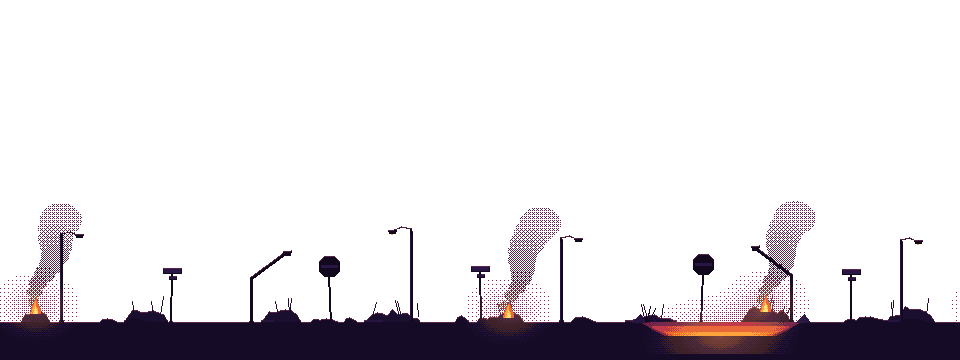
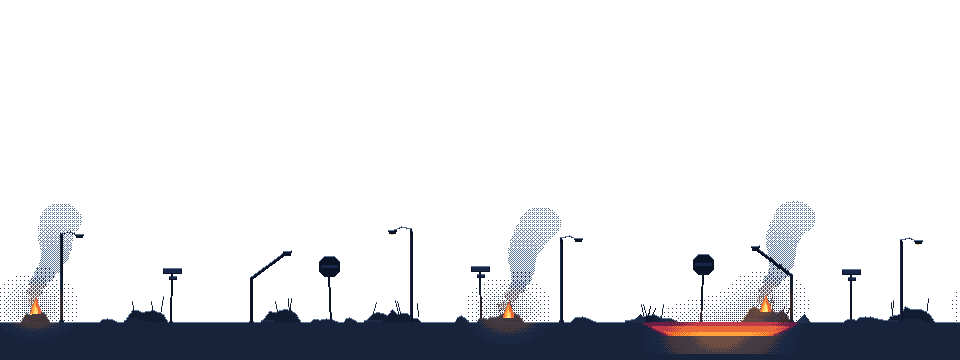
Add surface-only snow, winter night background, smoother motion (#30)
- Screen-space snowfall that fades out through the first gate
- Snow caps on surface platforms
- Street background recolored to a dark, moonlit winter night
- Enable physics interpolation; parallax follows the drawn camera position

diff --git a/art-src/terrain/bg_street.py b/art-src/terrain/bg_street.py
@@ -3,9 +3,9 @@ from pix import Art, hx
 from bgkit import *
 
 H = 360
-SKY = ["#0a0720", "#130c32", "#1f1042", "#34154f", "#561a58", "#8a2457", "#c03a4a", "#e8683a"]
+SKY = ["#05080f", "#080d1c", "#0c1428", "#111c36", "#182847", "#223458", "#2c4268", "#6f88ad"]
 FIRE = ["#b8322e", "#f06a2a", "#ffb347", "#ffe27a"]
-GROUND = "#190e2a"
+GROUND = "#2c4064"
 
 
 def lamp(a, x, gy, h, col, lit=None, bent=False, arm=1, rim=None):
@@ -56,7 +56,7 @@ def sign_post(a, x, gy, h, col, face, kind="blade", lean=0, rim=None):
         a.rect(tx - 1, by + bh + 4, tx + w + 2, by + bh + 2 + bh - 2, face)
 
 
-def rubble_pile(a, x, gy, w, h, col, rng, rim=None):
+def rubble_pile(a, x, gy, w, h, col, rng, rim=None, snow=None):
     pts = [(x, gy)]
     n = max(3, w // 5)
     for i in range(1, n):
@@ -64,6 +64,9 @@ def rubble_pile(a, x, gy, w, h, col, rng, rim=None):
         pts.append((x + int(w * t), gy - int(h * (0.35 + 0.65 * np.sin(np.pi * t)) * (0.6 + 0.4 * rng.random()))))
     pts.append((x + w, gy))
     a.poly(pts, col)
+    if snow:
+        for i in range(len(pts) - 1):
+            a.line([pts[i], pts[i + 1]], snow)
     for _ in range(max(1, w // 14)):
         rx = x + int(rng.integers(2, max(3, w - 2)))
         a.line([(rx, gy - int(h * 0.5)), (rx + int(rng.integers(-4, 5)), gy - h - int(rng.integers(3, 9)))], col)
@@ -74,35 +77,35 @@ def far():
     a = Art(640, H, base=SKY[0])
     a.hband(8, 256, SKY, sharp=2.5)
     a.rect(0, 256, 640, H, GROUND)
-    a.rect(0, 256, 640, 258, "#2a1238")
+    a.rect(0, 256, 640, 258, "#6f88ad")
     stars(a, rng, 70, 130, ["#e6e0ff", "#9d90d8", "#6a5ca8"])
     a.glow(110, 62, 34, "#b8a8ff", 0.0)
     m = a.mask("ellipse", 78, 30, 142, 94)
-    a.stipple(m, "#3a2468", 0.28)
+    a.stipple(m, "#16254a", 0.28)
     m = a.mask("ellipse", 92, 44, 128, 80)
-    a.stipple(m, "#4e3484", 0.35)
+    a.stipple(m, "#223564", 0.35)
     a.ellipse(96, 48, 124, 76, "#e9e3cf")
     a.poly([(98, 56), (106, 50), (112, 52), (104, 60)], "#f6f1e0")
     a.ellipse(110, 56, 124, 76, "#cfc4ba")
     a.ellipse(97, 49, 118, 70, "#e9e3cf")
     for (cx, cy, r) in ((105, 62, 3), (100, 56, 2), (112, 55, 2)):
         a.ellipse(cx - r, cy - r, cx + r, cy + r, "#c9bfb4")
-    low = "#241238"
+    low = "#1c2b48"
     x = -10
     while x < 640:
         w = int(rng.integers(18, 46))
-        rubble_pile(a, x, 258, w, int(rng.integers(4, 10)), low, rng)
+        rubble_pile(a, x, 258, w, int(rng.integers(4, 10)), low, rng, snow="#6f88ad")
         x += w + int(rng.integers(14, 60))
     for lx, hh, bent, lit in ((40, 34, False, None), (150, 30, True, None), (265, 36, False, "#ffb347"), (390, 31, False, None), (480, 33, True, None), (580, 35, False, None)):
-        lamp(a, lx, 258, hh, "#2b1642", lit=lit, bent=bent, arm=1 if lx % 2 else -1)
+        lamp(a, lx, 258, hh, "#16233c", lit=lit, bent=bent, arm=1 if lx % 2 else -1)
     for sx, hh, kind in ((95, 22, "blade"), (205, 20, "stop"), (330, 24, "blade"), (440, 21, "stop"), (535, 23, "blade")):
-        sign_post(a, sx, 258, hh, "#2b1642", "#3d1e55", kind=kind, lean=int(rng.integers(-2, 3)))
+        sign_post(a, sx, 258, hh, "#16233c", "#1e2e4c", kind=kind, lean=int(rng.integers(-2, 3)))
     for fx in (70, 300, 520):
         flame(a, fx, 258, 10, 3, ["#8a2457", "#c03a4a", "#e8683a", "#ffb347"])
     for gx, gy, r in ((70, 252, 70), (300, 252, 80), (520, 252, 70)):
         a.glow(gx, gy, r, "#ff8a3a", 0.4, ry=r * 0.45)
     a.rim_top("#7a2a5a", only=np.zeros((H, 640), bool))
-    used = SKY + ["#2b1642", "#3d1e55", "#241238", "#ffb347", "#8a2457", "#c03a4a", "#e8683a", "#e6e0ff", "#9d90d8", "#6a5ca8", "#e9e3cf", "#f6f1e0", "#c9bfb4", "#cfc4ba", "#3a2468", "#4e3484", GROUND, "#2a1238"]
+    used = SKY + ["#16233c", "#1e2e4c", "#1c2b48", "#ffb347", "#8a2457", "#c03a4a", "#e8683a", "#e6e0ff", "#9d90d8", "#6a5ca8", "#e9e3cf", "#f6f1e0", "#c9bfb4", "#cfc4ba", "#8ea6c6", "#16254a", "#223564", GROUND, "#6f88ad"]
     pal = glow_palette(used, ["#ff8a3a"], (0.2, 0.4))
     return a.finish(pal)
 
@@ -111,42 +114,42 @@ def mid():
     rng = np.random.default_rng(200)
     W = 960
     a = Art(W, H)
-    body, face, lit_c = "#1a0f2e", "#26153f", "#ffa23c"
+    body, face, lit_c = "#121c30", "#1d2b47", "#ffa23c"
     gy = 322
     fires = []
     x = 20
     while x < W - 60:
         w = int(rng.integers(30, 80))
         h = int(rng.integers(8, 26))
-        rubble_pile(a, x, gy + 2, w, h, body, rng)
+        rubble_pile(a, x, gy + 2, w, h, body, rng, snow="#8ea6c6")
         a.rect(x + 2, gy - 2, x + w // 3, gy + 2, face)
         if rng.random() < 0.55:
             fires.append((x + w // 2, gy - h + 4))
         x += w + int(rng.integers(40, 110))
     for lx, hh, bent, lit, arm in ((60, 92, False, None, 1), (250, 84, True, None, 1), (410, 96, False, lit_c, -1), (560, 88, False, None, 1), (790, 90, True, None, -1), (900, 86, False, lit_c, 1)):
-        lamp(a, lx, gy + 2, hh, "#12091f", lit=lit, bent=bent, arm=arm, rim="#26153f")
+        lamp(a, lx, gy + 2, hh, "#0b1426", lit=lit, bent=bent, arm=arm, rim="#1d2b47")
     for sx, hh, kind, ln in ((170, 56, "blade", 1), (330, 50, "stop", -2), (480, 58, "blade", -1), (700, 52, "stop", 2), (850, 55, "blade", 0)):
-        sign_post(a, sx, gy + 2, hh, "#12091f", "#2a1646", kind=kind, lean=ln)
+        sign_post(a, sx, gy + 2, hh, "#0b1426", "#18264a", kind=kind, lean=ln)
     for (fx, fy) in fires:
-        smoke(a, fx, fy - 6, rng, 10, "#34224a", drift=3.2, r0=5, grow=1.7, cov0=0.7)
+        smoke(a, fx, fy - 6, rng, 10, "#26355a", drift=3.2, r0=5, grow=1.7, cov0=0.7)
     for (fx, fy) in fires:
         flame(a, fx, fy + 6, int(rng.integers(16, 26)), 5, FIRE, lean=1)
-        a.glow(fx, fy - 2, 56, "#ff8a3a", 0.4, halo="#7a2a4a", ry=42)
-    ground(a, 322, "#150b26", "#5a2646", rng, bumps=18, bump_h=8)
+        a.glow(fx, fy - 2, 56, "#ff8a3a", 0.4, halo="#2a3a5c", ry=42)
+    ground(a, 322, "#17233b", "#5f7799", rng, bumps=18, bump_h=8)
     cx0 = 640
     pts = [(cx0 + i, 322 + int(26 * (1 - ((i - 80) / 80.0) ** 2))) for i in range(0, 161, 4)]
     a.poly([(cx0, 322)] + pts + [(cx0 + 160, 322)], "#6a1e46")
     a.poly([(cx0 + 12, 326)] + [(px, py - 2) for px, py in pts[3:-3]] + [(cx0 + 148, 326)], "#c03a4a")
     a.poly([(cx0 + 32, 332)] + [(px, py - 4) for px, py in pts[6:-6]] + [(cx0 + 128, 332)], "#f06a2a")
     a.rect(cx0 + 60, 346, cx0 + 100, 346, "#ffb347")
-    a.glow(cx0 + 80, 336, 90, "#ff8a3a", 0.5, halo="#7a2a4a", ry=50)
-    a.rect(0, 336, W, H, "#150b26")
+    a.glow(cx0 + 80, 336, 90, "#ff8a3a", 0.5, halo="#2a3a5c", ry=50)
+    a.rect(0, 336, W, H, "#17233b")
     for rx in (cx0 - 8, cx0 + 156):
-        a.poly([(rx, 322), (rx + 8, 314), (rx + 14, 322)], "#26153f")
+        a.poly([(rx, 322), (rx + 8, 314), (rx + 14, 322)], "#1d2b47")
     for rx in (cx0 + 6, cx0 + 140):
-        a.line([(rx, 322), (rx + 4, 306)], "#0f0820")
-        a.line([(rx + 3, 322), (rx + 9, 308)], "#0f0820")
-    pal = glow_palette([body, face, "#150b26", "#0f0820", "#26153f", "#5a2646"], ["#ff8a3a"], (0.18, 0.36, 0.6)) + [hx(c) for c in FIRE + ["#ffa23c", "#e8683a", "#6a1e46", "#c03a4a", "#f06a2a", "#12091f", "#2a1646", "#34224a", "#7a2a4a", "#ffb347"]]
+        a.line([(rx, 322), (rx + 4, 306)], "#080f1e")
+        a.line([(rx + 3, 322), (rx + 9, 308)], "#080f1e")
+    pal = glow_palette([body, face, "#17233b", "#080f1e", "#1d2b47", "#5f7799"], ["#ff8a3a"], (0.18, 0.36, 0.6)) + [hx(c) for c in FIRE + ["#ffa23c", "#e8683a", "#6a1e46", "#c03a4a", "#f06a2a", "#0b1426", "#18264a", "#26355a", "#2a3a5c", "#ffb347"]]
     return a.finish(pal)
 
 
@@ -154,18 +157,18 @@ def near():
     rng = np.random.default_rng(300)
     W = 960
     a = Art(W, H)
-    dk, rim = "#0d0816", "#4a2038"
+    dk, rim = "#080d1a", "#4a6286"
     ground(a, 340, dk, rim, rng, bumps=26, bump_h=14, bump_w=(20, 60))
     for lx, hh, bent, lit, arm in ((90, 196, False, None, 1), (470, 188, True, None, 1), (820, 200, False, "#ffb347", -1)):
-        lamp(a, lx, 340, hh, dk, lit=lit, bent=bent, arm=arm, rim="#2a1428")
-    sign_post(a, 290, 340, 120, dk, "#2a1a38", kind="blade", lean=3)
-    sign_post(a, 650, 340, 72, dk, "#3a1a30", kind="stop", lean=-5)
+        lamp(a, lx, 340, hh, dk, lit=lit, bent=bent, arm=arm, rim="#15203a")
+    sign_post(a, 290, 340, 120, dk, "#18264a", kind="blade", lean=3)
+    sign_post(a, 650, 340, 72, dk, "#1e2a48", kind="stop", lean=-5)
     a.line([(700, 340), (742, 332)], dk, 3)
     for (rx, ry) in ((200, 340), (560, 340), (730, 340), (905, 340)):
         for k in range(4):
             a.line([(rx + k * 4, ry), (rx + k * 4 + int(rng.integers(-5, 6)), ry - int(rng.integers(20, 44)))], dk)
         a.poly([(rx - 10, ry), (rx - 4, ry - 12), (rx + 8, ry - 14), (rx + 22, ry)], dk)
     a.rim_top(rim)
-    a.glow(150, 330, 160, "#ff8a3a", 0.18, halo="#3a1a34", ry=60)
-    pal = glow_palette([dk, rim, "#2a1428", "#1c1028", "#2a1a38", "#6a2a38"], ["#ff8a3a"], (0.2, 0.4)) + [hx(c) for c in ("#3a1a30", "#ffb347")]
+    a.glow(150, 330, 160, "#ff8a3a", 0.18, halo="#17233b", ry=60)
+    pal = glow_palette([dk, rim, "#15203a", "#101a30", "#18264a", "#2c3e60"], ["#ff8a3a"], (0.2, 0.4)) + [hx(c) for c in ("#1e2a48", "#ffb347")]
     return a.finish(pal)

diff --git a/art-src/terrain/bgkit.py b/art-src/terrain/bgkit.py
@@ -136,7 +136,7 @@ def ground(art, y_top, col, rim, rng, bumps=0, bump_h=8, bump_w=(12, 30)):
 
 
 EXT = {
-    "street": ("#0a0720", "#190e2a", "#150b26", "#0d0816"),
+    "street": ("#05080f", "#2c4064", "#17233b", "#080d1a"),
     "stairwell": ("#070b16", "#0a1020", "#0a1020", "#070b14"),
     "tunnel": ("#0b0e1b", "#0d1020", "#12172c", "#090c18"),
     "guildhall": ("#150f1c", "#1d110d", "#2a170f", "#140b08"),
